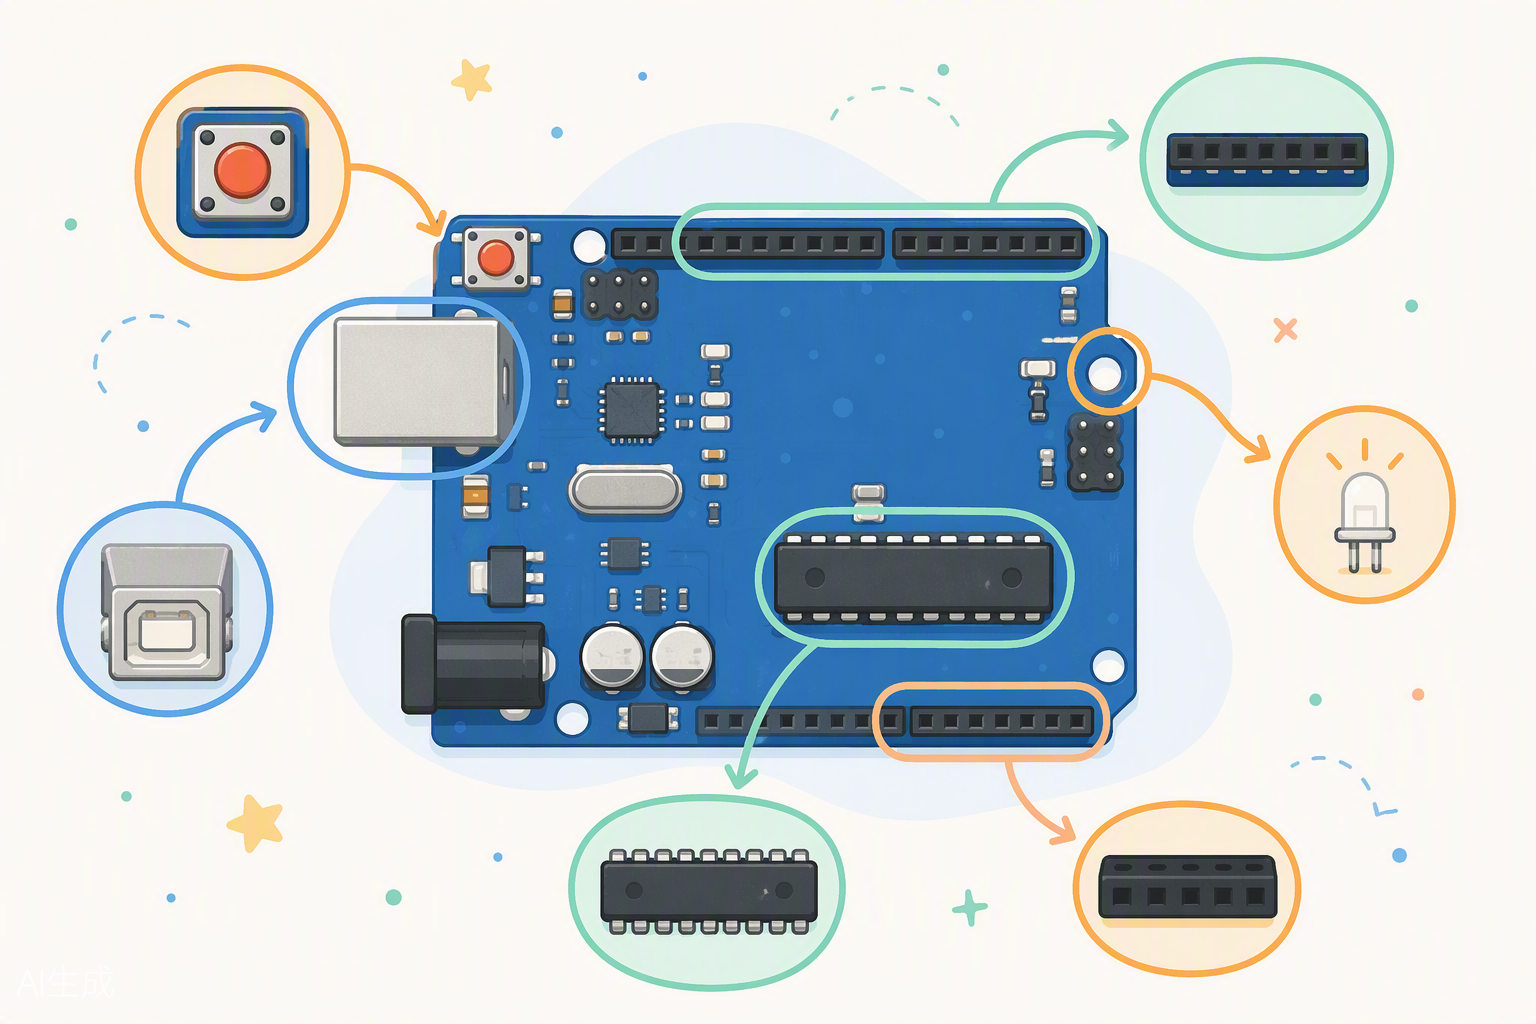
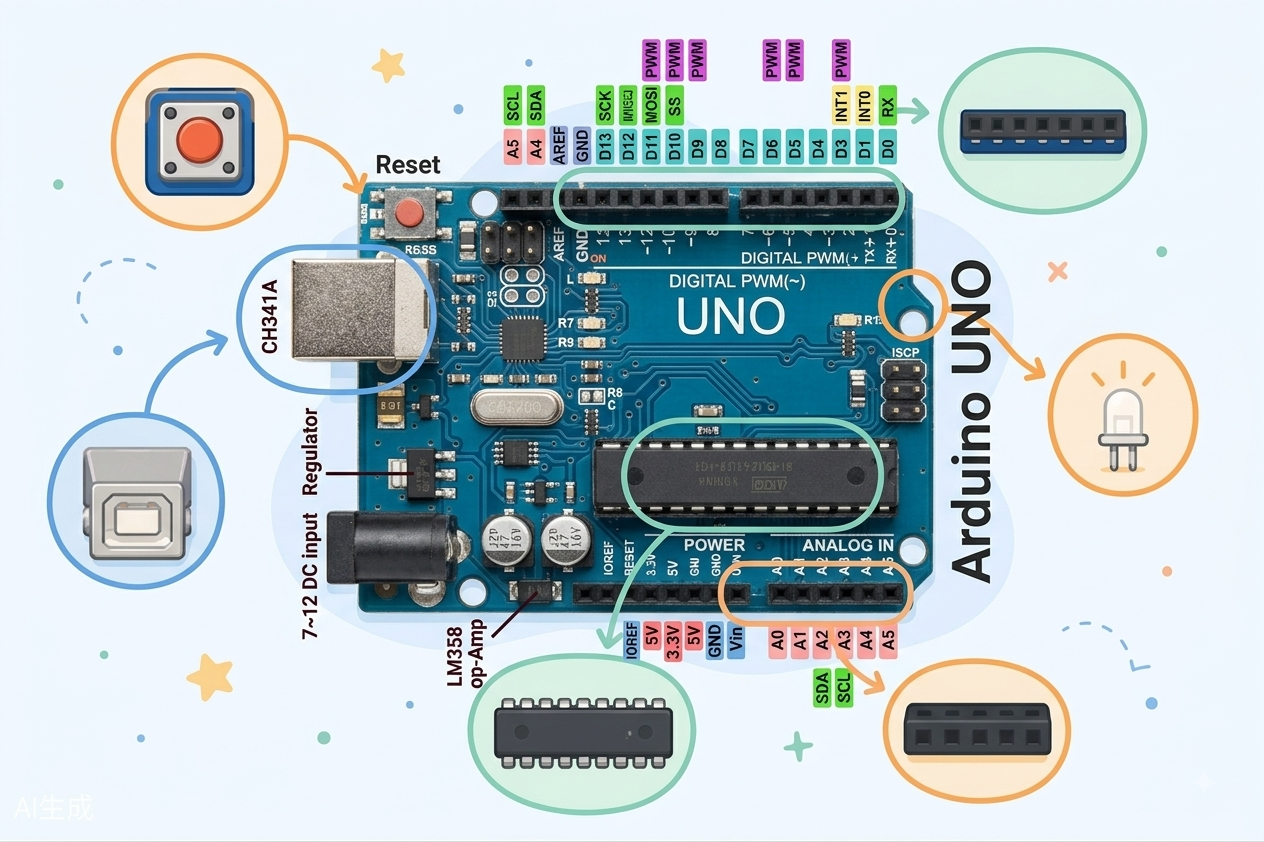
Cambio imagenes arduino C1

diff --git a/clase-01-hola-arduino.md b/clase-01-hola-arduino.md
@@ -39,6 +39,7 @@ Hoy la lista es cortita (¡disfrútala, que no siempre será así! 😄):
 
 ### 1. ¿Qué es Arduino? (y qué es eso del movimiento maker)
 
+![placa dibujo arduino](images/clase01-arduino-draw.png)
 Imagina que quieres construir una alarma que suene cuando alguien abre la puerta de tu cuarto. O un robot que esquive obstáculos. O una maceta que te avise cuando la planta tenga sed. Hace veinte años, para hacer algo así necesitabas estudiar ingeniería electrónica durante años, soldar circuitos complicados y programar en lenguajes que parecen hechizos.
 
 Entonces, en el año 2005, un grupo de profesores de una escuela de diseño en Ivrea, Italia (sí, el nombre "Arduino" viene del bar donde se reunían 🍻), se hizo una pregunta genial:

diff --git a/docs/clases/clase-01-hola-arduino.md b/docs/clases/clase-01-hola-arduino.md
@@ -39,6 +39,7 @@ Hoy la lista es cortita (¡disfrútala, que no siempre será así! 😄):
 
 ### 1. ¿Qué es Arduino? (y qué es eso del movimiento maker)
 
+![placa dibujo arduino](images/clase01-arduino-draw.png)
 Imagina que quieres construir una alarma que suene cuando alguien abre la puerta de tu cuarto. O un robot que esquive obstáculos. O una maceta que te avise cuando la planta tenga sed. Hace veinte años, para hacer algo así necesitabas estudiar ingeniería electrónica durante años, soldar circuitos complicados y programar en lenguajes que parecen hechizos.
 
 Entonces, en el año 2005, un grupo de profesores de una escuela de diseño en Ivrea, Italia (sí, el nombre "Arduino" viene del bar donde se reunían 🍻), se hizo una pregunta genial:
